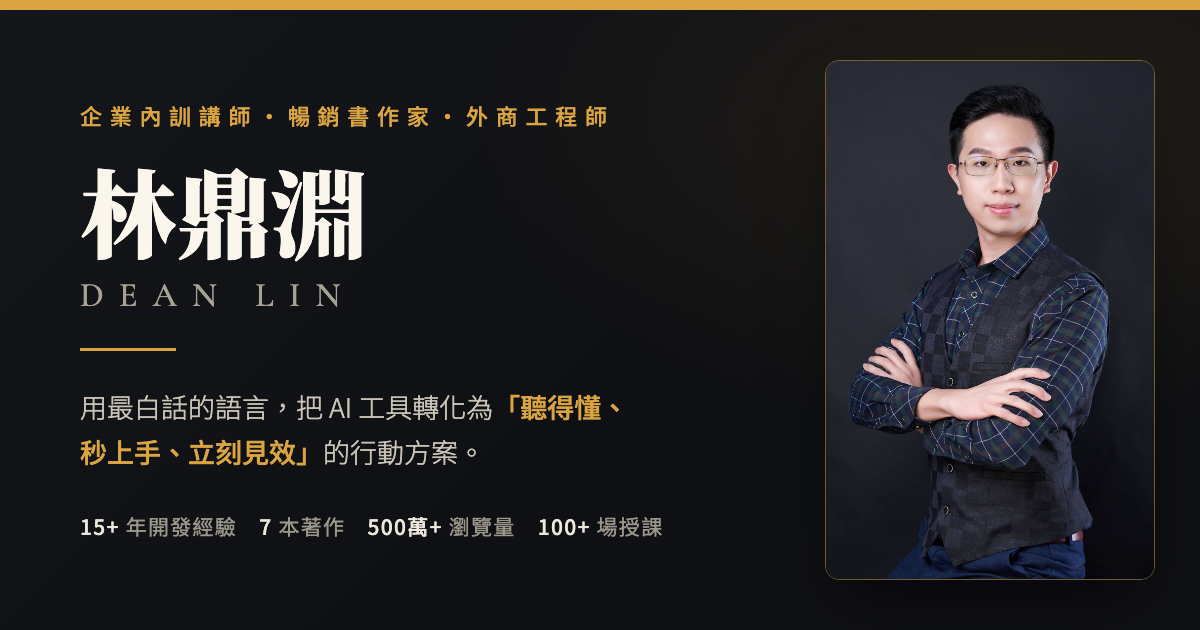
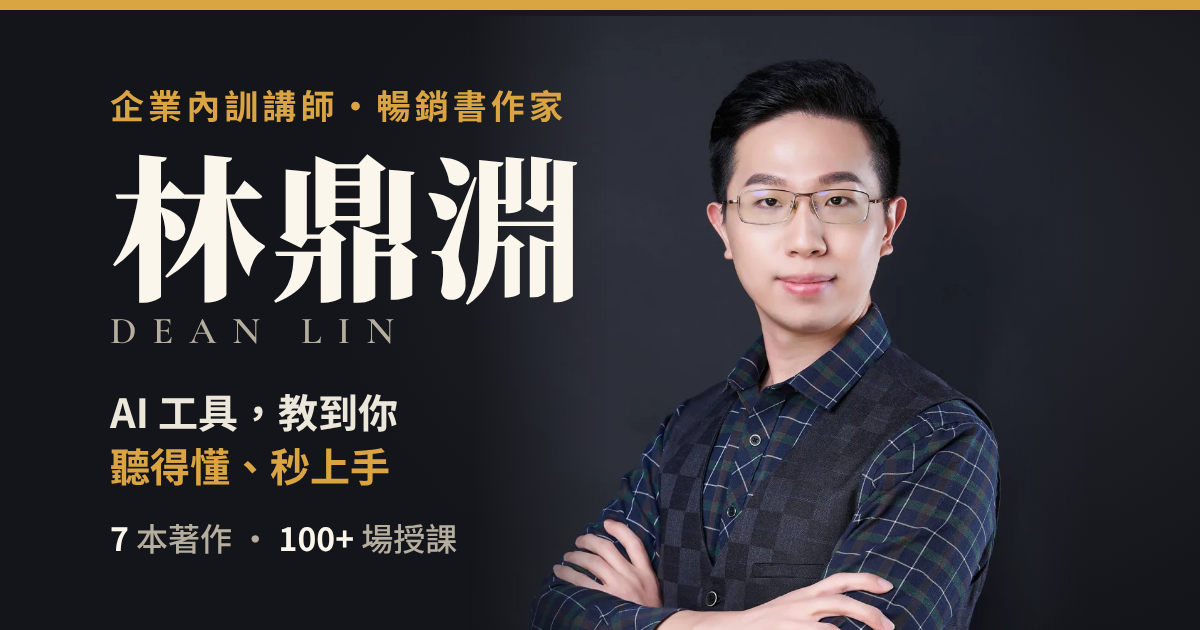
design: 重做 OG 預覽圖並加上快取版本號 (#11)
* design: 重做 OG 預覽圖，人像移至中央安全區、文字放大精簡

- 人像改為滿版融入背景，臉部移到中央，正方形裁切時不會被切掉
- 姓名 96→156px、內文 27→40px、數據 21→32px，縮圖後仍可讀
- 資訊精簡為身分、姓名、一句價值主張、兩個數據

Claude-Session: https://claude.ai/code/session_01HVe8LkE5nE58L8yHQmd4r7

* feat: OG 圖網址加上內容雜湊，換圖後社群平台自動重抓

Claude-Session: https://claude.ai/code/session_01HVe8LkE5nE58L8yHQmd4r7

---------

diff --git a/og.html b/og.html
@@ -6,73 +6,61 @@
   "/Applications/Google Chrome.app/Contents/MacOS/Google Chrome" --headless=new --disable-gpu \
     --screenshot=assets/og.png --window-size=1200,630 --hide-scrollbars \
     --virtual-time-budget=8000 og.html
+
+  設計原則（社群預覽會被縮到約 400–500px 寬、部分平台會裁成接近正方形）：
+  - 重點（臉、姓名）集中在中央，左右各留約 120px 不放關鍵資訊
+  - 文字縮小 0.4 倍後仍要可讀：內文 ≥ 34px、姓名 ≥ 140px
+  - 只放 4 個資訊：身分、姓名、一句價值主張、一個信任數據
 -->
 <link rel="preconnect" href="https://fonts.googleapis.com">
 <link rel="preconnect" href="https://fonts.gstatic.com" crossorigin>
-<link href="https://fonts.googleapis.com/css2?family=Noto+Serif+TC:wght@600;700;900&family=Noto+Sans+TC:wght@300;400;500&family=Cormorant+Garamond:wght@500;700&display=swap" rel="stylesheet">
+<link href="https://fonts.googleapis.com/css2?family=Noto+Serif+TC:wght@900&family=Noto+Sans+TC:wght@500;700&family=Cormorant+Garamond:wght@600&display=swap" rel="stylesheet">
 <style>
 *{margin:0;padding:0;box-sizing:border-box}
 html,body{width:1200px;height:630px;overflow:hidden}
-body{
-  background:#0f1013;color:#ece7db;
-  font-family:"Noto Sans TC",sans-serif;
-  display:flex;
-}
+body{background:#14151a;color:#ece7db;font-family:"Noto Sans TC",sans-serif}
 .card{
-  width:100%;height:100%;display:flex;align-items:stretch;
+  position:relative;width:1200px;height:630px;overflow:hidden;
   background:
-    radial-gradient(900px 500px at 85% 20%, rgba(217,164,65,.10), transparent 60%),
-    linear-gradient(135deg,#15161b 0%,#0f1013 55%);
+    radial-gradient(700px 520px at 74% 38%, #2a2d36 0%, #1c1e24 45%, #14151a 80%);
   border-top:10px solid #d9a441;
 }
-.left{
-  flex:1;display:flex;flex-direction:column;justify-content:center;
-  padding:0 60px 0 80px;
+/* 人像：臉部中心約在 x=800，落在中央安全區內；左緣與下緣漸層融入背景 */
+.photo{
+  position:absolute;left:470px;top:6px;height:940px;width:auto;
+  -webkit-mask-image:
+    linear-gradient(to right, transparent 0, #000 22%, #000 80%, transparent 100%),
+    linear-gradient(to bottom, #000 70%, transparent 100%);
+  -webkit-mask-composite:source-in;mask-composite:intersect;
 }
-.eyebrow{
-  color:#d9a441;letter-spacing:.35em;font-size:22px;font-weight:500;
-  margin-bottom:26px;
+.text{
+  position:absolute;left:110px;top:0;bottom:0;width:560px;
+  display:flex;flex-direction:column;justify-content:center;
 }
+.eyebrow{color:#d9a441;font-size:34px;font-weight:700;letter-spacing:.12em}
 h1{
-  font-family:"Noto Serif TC",serif;font-weight:900;font-size:96px;
-  color:#faf6ec;line-height:1.1;
+  font-family:"Noto Serif TC",serif;font-weight:900;font-size:156px;
+  color:#faf6ec;line-height:1.05;margin-top:10px;letter-spacing:.02em;
 }
 .en{
-  font-family:"Cormorant Garamond",serif;font-weight:500;font-size:34px;
-  color:#a8a294;letter-spacing:.45em;display:block;margin-top:14px;
+  font-family:"Cormorant Garamond",serif;font-weight:600;font-size:38px;
+  color:#b5ae9f;letter-spacing:.42em;margin-top:6px;
 }
-.divider{width:96px;height:3px;background:#d9a441;margin:34px 0}
-.lead{
-  font-size:27px;font-weight:300;color:#c9c3b5;line-height:1.65;max-width:21em;
-}
-.lead b{color:#d9a441;font-weight:500}
-.stats{
-  margin-top:36px;font-size:21px;color:#9b968a;letter-spacing:.06em;
-}
-.stats span{color:#ece7db;font-weight:500}
-.right{
-  width:360px;display:flex;align-items:flex-end;justify-content:center;
-  padding:0 60px 0 0;
-}
-.photo{
-  width:330px;height:520px;object-fit:cover;object-position:top center;
-  border-radius:14px;border:1px solid rgba(217,164,65,.5);
-  box-shadow:0 30px 60px -20px rgba(0,0,0,.7);
-  align-self:center;
-}
+.lead{margin-top:30px;font-size:40px;font-weight:700;line-height:1.35;color:#ece7db}
+.lead b{color:#d9a441}
+.stats{margin-top:22px;font-size:32px;font-weight:500;color:#b5ae9f}
+.stats span{color:#faf6ec;font-weight:700}
 </style>
 </head>
 <body>
 <div class="card">
-  <div class="left">
-    <div class="eyebrow">企業內訓講師・暢銷書作家・外商工程師</div>
-    <h1>林鼎淵<span class="en">DEAN LIN</span></h1>
-    <div class="divider"></div>
-    <p class="lead">用最白話的語言，把 AI 工具轉化為<b>「聽得懂、秒上手、立刻見效」</b>的行動方案。</p>
-    <div class="stats"><span>15+</span> 年開發經驗　<span>7</span> 本著作　<span>500萬+</span> 瀏覽量　<span>100+</span> 場授課</div>
-  </div>
-  <div class="right">
-    <img class="photo" src="assets/形象照/個人照.webp" alt="林鼎淵形象照">
+  <img class="photo" src="assets/形象照/個人照.webp" alt="林鼎淵形象照">
+  <div class="text">
+    <div class="eyebrow">企業內訓講師・暢銷書作家</div>
+    <h1>林鼎淵</h1>
+    <div class="en">DEAN LIN</div>
+    <p class="lead">AI 工具，教到你<br><b>聽得懂、秒上手</b></p>
+    <div class="stats"><span>7</span> 本著作 ・ <span>100+</span> 場授課</div>
   </div>
 </div>
 </body>

diff --git a/index.html b/index.html
@@ -12,7 +12,7 @@
 <meta property="og:title" content="林鼎淵 Dean Lin｜生成式 AI 講師・暢銷書作家・軟體專家">
 <meta property="og:description" content="外商資安公司軟體專家、生成式 AI 創新學院發起人、全台第一本 ChatGPT 應用專書作者。超過百場授課與顧問經驗。">
 <meta property="og:url" content="https://deanlin.net/branding/">
-<meta property="og:image" content="https://deanlin.net/branding/assets/og.png">
+<meta property="og:image" content="https://deanlin.net/branding/assets/og.png?v=05a23719">
 <meta property="og:image:width" content="1200">
 <meta property="og:image:height" content="630">
 <meta property="og:image:alt" content="林鼎淵 DEAN LIN 形象卡片">
@@ -21,7 +21,7 @@
 <meta name="twitter:card" content="summary_large_image">
 <meta name="twitter:title" content="林鼎淵 Dean Lin｜生成式 AI 講師・暢銷書作家・軟體專家">
 <meta name="twitter:description" content="外商資安公司軟體專家、生成式 AI 創新學院發起人、全台第一本 ChatGPT 應用專書作者。超過百場授課與顧問經驗。">
-<meta name="twitter:image" content="https://deanlin.net/branding/assets/og.png">
+<meta name="twitter:image" content="https://deanlin.net/branding/assets/og.png?v=05a23719">
 <meta name="twitter:image:alt" content="林鼎淵 DEAN LIN 形象卡片">
 <!-- 字型：build 時算出本頁用到的字，抓回只含這些字的字型檔放 assets/fonts/ 自行託管；CSS 內嵌、字型檔 preload（見 build.mjs 的 buildFonts） -->
 <link rel="preload" as="font" type="font/woff2" href="assets/fonts/NotoSerifTC-700_900-crit-221c1bc0.woff2" crossorigin>
@@ -101,7 +101,7 @@
       "name": "林鼎淵 Dean Lin｜生成式 AI 講師・暢銷書作家・軟體專家",
       "description": "外商資安公司軟體專家、生成式 AI 創新學院發起人、全台第一本 ChatGPT 應用專書作者。超過百場授課與顧問經驗。",
       "inLanguage": "zh-Hant",
-      "dateModified": "2026-10-04",
+      "dateModified": "2026-11-03",
       "mainEntity": {
         "@id": "https://deanlin.net/branding/#person"
       }
